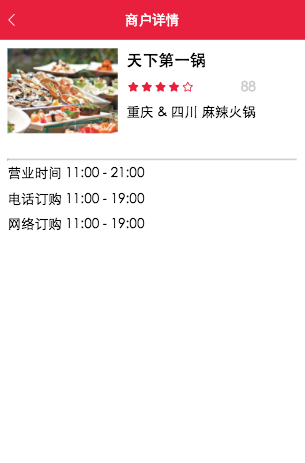
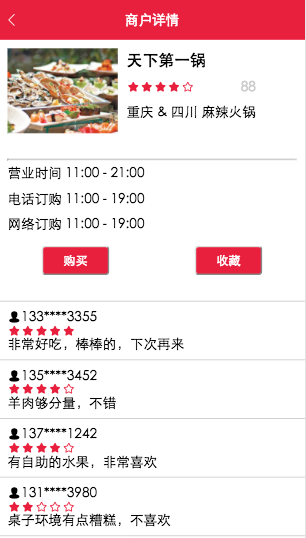
收藏状态改变

diff --git a/app/containers/Detail/index.js b/app/containers/Detail/index.js
@@ -1,9 +1,51 @@
 import React,{Component} from 'react';
+import {connect} from 'react-redux';
 import HeaderComponent from '../../components/HeaderComponent';
 import Info from '../../containers/Detail/subpage/Info';
 import Comment from '../../containers/Detail/subpage/Comment';
+import Buy from '../../components/Buy';
 //通过路由渲染的组件都会在this.props上增加很多属性，例如history,match等
-export default class Detail extends Component{
+class Detail extends Component{
+    constructor(){
+        super();
+        this.state={
+            isStore:false
+        }
+    }
+    checkLogin(){//检查是否登录，登录返回true,未登录返回false
+        if(this.props.userInfo.username){
+            return true;
+        }
+        return false;
+    }
+    buy(){
+        //验证是否登录，如果登录成功，点击购买
+        //跳到用户页
+        let flag=this.checkLogin();
+        if(flag){
+            this.props.history.push('/user');
+        }else{
+            this.props.history.push('/login/'+encodeURIComponent('/detail'+this.props.match.params.id));
+        }
+    }
+    store(){
+        //验证是否登录，如果没登录让他去登录，如果登录成功再跳回详情页
+        let flag=this.checkLogin();
+        if(!flag){
+            this.props.history.push('/login/'+encodeURIComponent('/detail/'+this.props.match.params.id));
+        }
+        let id = this.props.match.params.id;
+        if(this.state.isStore){
+            //在store中移除掉
+            this.props.storeActions.remove(id);
+        }else{
+            //添加到store中
+            this.props.storeActions.add(id);
+        }
+        this.setState({
+            isStore:!this.state.isStore
+        })
+    }
     render(){
         // console.log(this.props);
         return(
@@ -13,10 +55,35 @@ export default class Detail extends Component{
             {/*商户信息*/}
             <Info id={this.props.match.params.id}/>
             {/*购买和收藏*/}
-            <Buy/>
+            <Buy
+                buy={this.buy.bind(this)}
+                store={this.store.bind(this)}
+                isStore={this.state.isStore}
+            />
             {/*评论*/}
             <Comment id={this.props.match.params.id}/>
             </div>
         )
     }
+    componentDidMount(){
+        //先从redux中获取所有的收藏列表[],如果有，显示已收藏，没有就是未收藏
+        // console.log(this.props.store)
+        //1、拿到当前商户的id
+        let id = this.props.match.params.id;
+        //2、去收藏的数组中查询,数组的some:如果数组中返回，则返回true，否则返回false
+        let flag = this.props.store.some(item=>item===id);
+        if(flag){
+            this.setState({
+                isStore:flag
+            })
+        }
+    }
 }
+export default connect(
+    state=>{
+        return {
+            userInfo:state.userInfo,
+            store:state.store//这里存放是的收藏的数组
+        }
+    }
+)(Detail)

diff --git a/app/reducers/store.js b/app/reducers/store.js
@@ -1,0 +1,16 @@
+import * as Types from '../action-types/store';
+let initState={};
+export function store(state=initState,action) {
+    //将传入的state更新成最新的状态
+    switch (action.type){
+        case Types.ADD_STORE:
+            //如果是添加，则会传递新的id,放到数组中即可
+            return [...state,action.data];
+        case Types.REMOVE_STORE:
+            //通过传递的id将数组中的某一项移除掉
+            return state.filter(item=>action.data!==item);
+        default:
+            return state;
+    }
+
+}

diff --git a/app/components/Buy/index.js b/app/components/Buy/index.js
@@ -1,0 +1,21 @@
+import React,{Component} from 'react';
+import './index.less';
+export default class Buy extends Component{
+    buy(){
+        this.props.buy();
+    }
+    store(){
+        this.props.store();
+    }
+    render(){
+        return(
+            <div className='buy'>
+                <button onClick={this.buy.bind(this)}>购买</button>
+                <button onClick={this.store.bind(this)}>
+                    {this.props.isStore?'已收藏':'收藏'}
+                </button>
+            </div>
+        )
+    }
+
+}

diff --git a/app/actions/store.js b/app/actions/store.js
@@ -1,0 +1,14 @@
+import * as Types from '../action-types/store';
+//actionCreator 是一个函数
+export function add(id) {//updata修改的动作
+    return {
+        type:Types.ADD_STORE,
+        data:id
+    }
+}
+export function remove(id) {//updata修改的动作
+    return {
+        type:Types.REMOVE_STORE,
+        data:id
+    }
+}

diff --git a/app/components/Buy/index.less b/app/components/Buy/index.less
@@ -1,0 +1,15 @@
+.buy{
+  display: flex;
+  justify-content: space-around;
+  button{
+    width: 80px;
+    height: 35px;
+    text-align: center;
+    margin-bottom: 30px;
+    font-size: 18px;
+    background: #E9203D;
+    border-radius: 5px;
+    color:#fff;
+    font-size: 14px;
+  }
+}

diff --git a/app/reducers/index.js b/app/reducers/index.js
@@ -1,6 +1,8 @@
 //合并所有reducer方法 导出去，让store使用
 import {combineReducers} from 'redux';
 import {userInfo} from './userInfo';
+import {store} from './store';
 export default combineReducers({
-    userInfo
+    userInfo,
+    store
 });

diff --git a/app/action-types/store.js b/app/action-types/store.js
@@ -1,0 +1,4 @@
+//有添加 收藏
+//有移除 收藏
+export const ADD_STORE ='addStore';
+export const REMOVE_STORE='removeStore';

diff --git a/README.md b/README.md
@@ -46,6 +46,8 @@ sudo npm install swipe-js-iso react-swipe -S
 ![Login](https://github.com/wlimiy/ReactWebApp/blob/master/app/src/login.png)
 
 ![comment](https://github.com/wlimiy/ReactWebApp/blob/master/app/src/comment.png)
+
+![city](https://github.com/wlimiy/ReactWebApp/blob/master/app/src/city.png)
 ## 目录结构
 ```
 - components组件：木偶组件
@@ -65,4 +67,5 @@ localStorage
 getStorage
 promise
 getBoundingClientRect()
+flex
 ```
